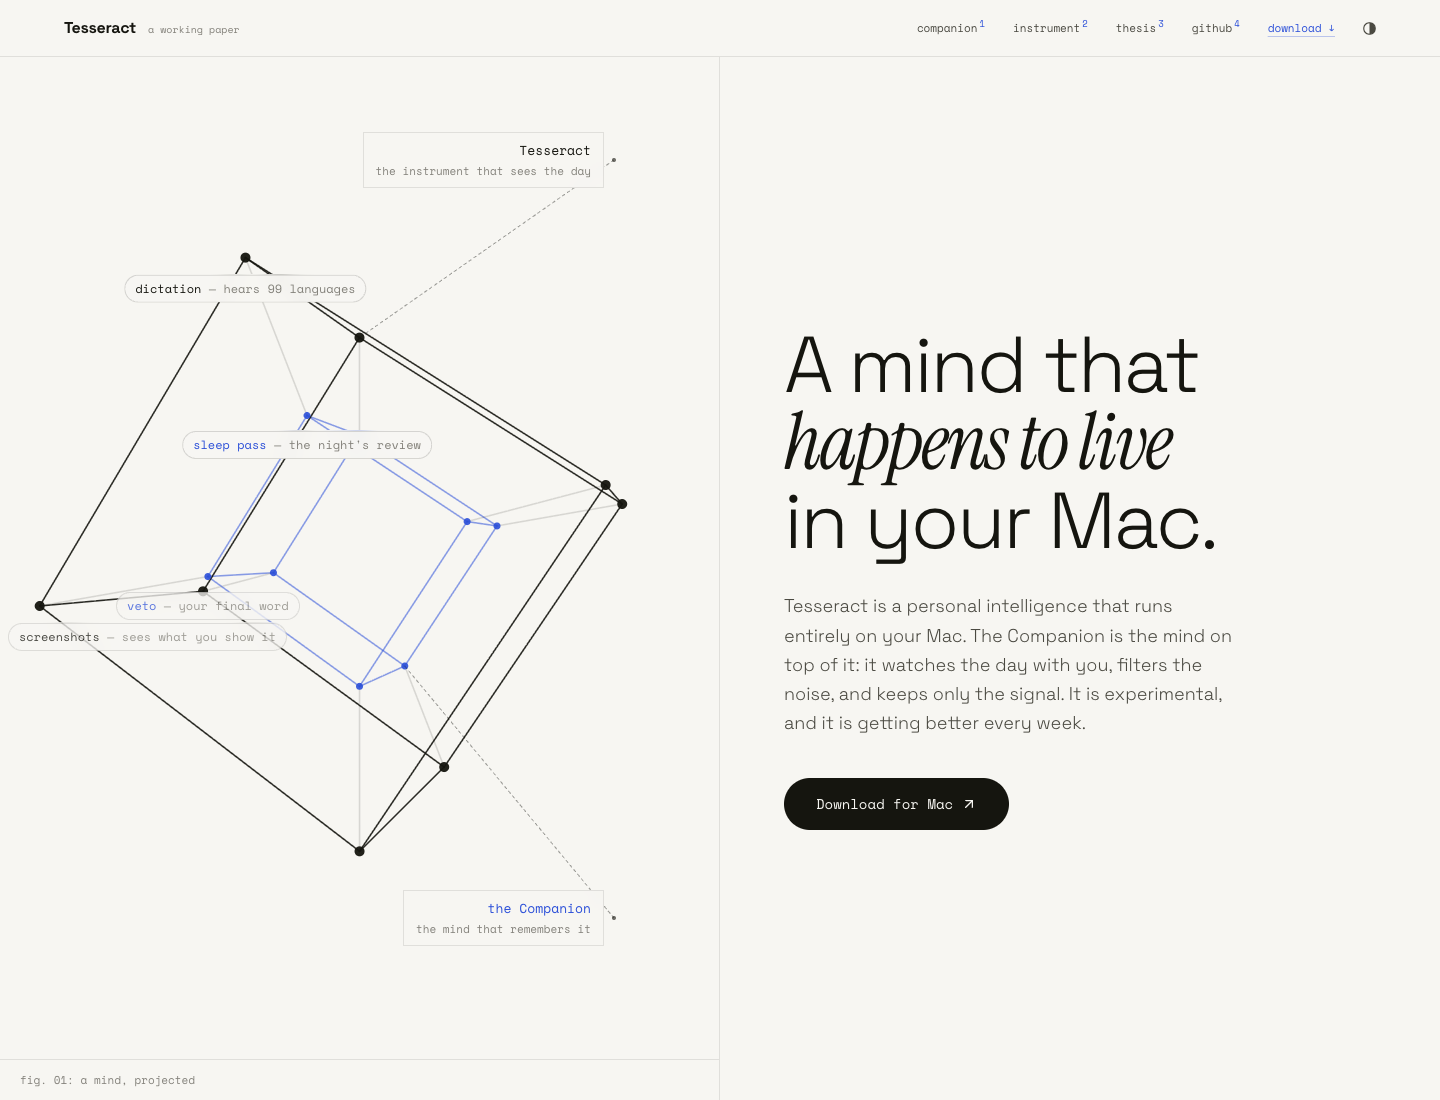
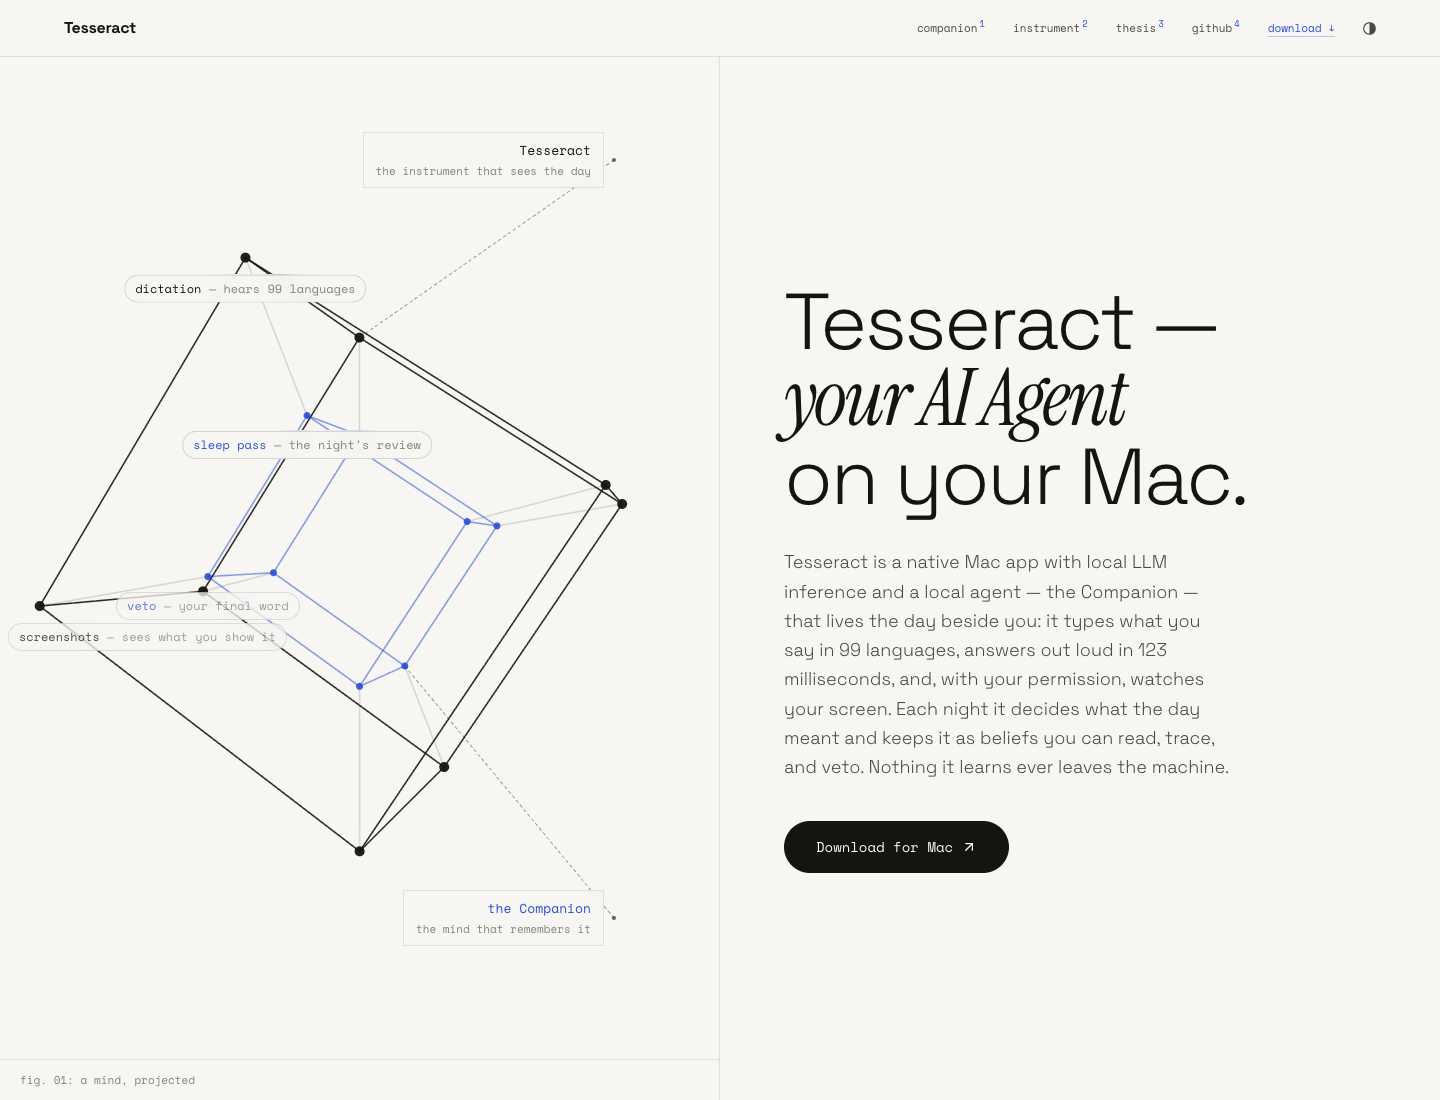
redesign: hero title and description to name the product outright
Title now reads 'Tesseract — your AI Agent on your Mac.' and the
description states the product plainly: a native Mac app with local
LLM inference and a local agent (the Companion) — dictation in 99
languages, voice answers in 123 ms, screen-watching with permission,
nightly beliefs you can read, trace, and veto.

Changed region(s): [[0.5312, 0.2473, 0.875, 0.8036]]

diff --git a/components/landing/hero.tsx b/components/landing/hero.tsx
@@ -372,7 +372,7 @@ export function Hero() {
               animate={{ opacity: 1, y: 0 }}
               transition={{ duration: 0.8, delay: 0.15, ease: EASE }}
             >
-              A mind that
+              Tesseract —
             </motion.span>
             <motion.span
               className={`block ${serif.className} italic`}
@@ -380,7 +380,7 @@ export function Hero() {
               animate={{ opacity: 1, y: 0 }}
               transition={{ duration: 0.8, delay: 0.3, ease: EASE }}
             >
-              happens to live
+              your AI Agent
             </motion.span>
             <motion.span
               className="block"
@@ -388,7 +388,7 @@ export function Hero() {
               animate={{ opacity: 1, y: 0 }}
               transition={{ duration: 0.8, delay: 0.45, ease: EASE }}
             >
-              in your Mac.
+              on your Mac.
             </motion.span>
           </h1>
 
@@ -398,10 +398,13 @@ export function Hero() {
             transition={{ duration: 0.7, delay: 0.6 }}
             className="mt-8 max-w-md text-base font-light leading-relaxed text-[var(--body)] sm:text-lg"
           >
-            Tesseract is a personal intelligence that runs entirely on your
-            Mac. The Companion is the mind on top of it: it watches the day
-            with you, filters the noise, and keeps only the signal. It is
-            experimental, and it is getting better every week.
+            Tesseract is a native Mac app with local LLM inference and a
+            local agent — the Companion — that lives the day beside you:
+            it types what you say in 99 languages, answers out loud in 123
+            milliseconds, and, with your permission, watches your screen.
+            Each night it decides what the day meant and keeps it as
+            beliefs you can read, trace, and veto. Nothing it learns ever
+            leaves the machine.
           </motion.p>
 
           <motion.div